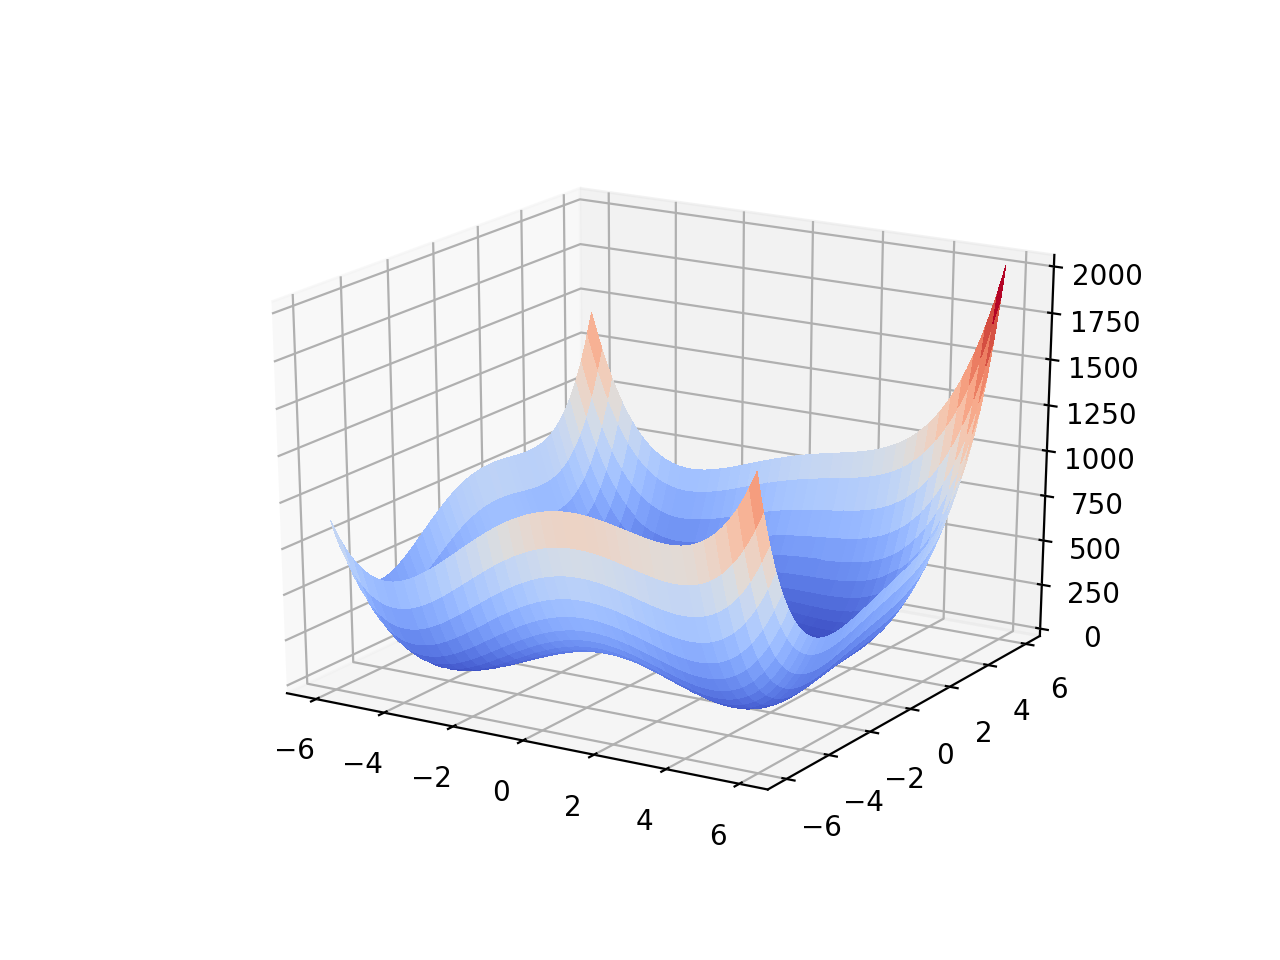
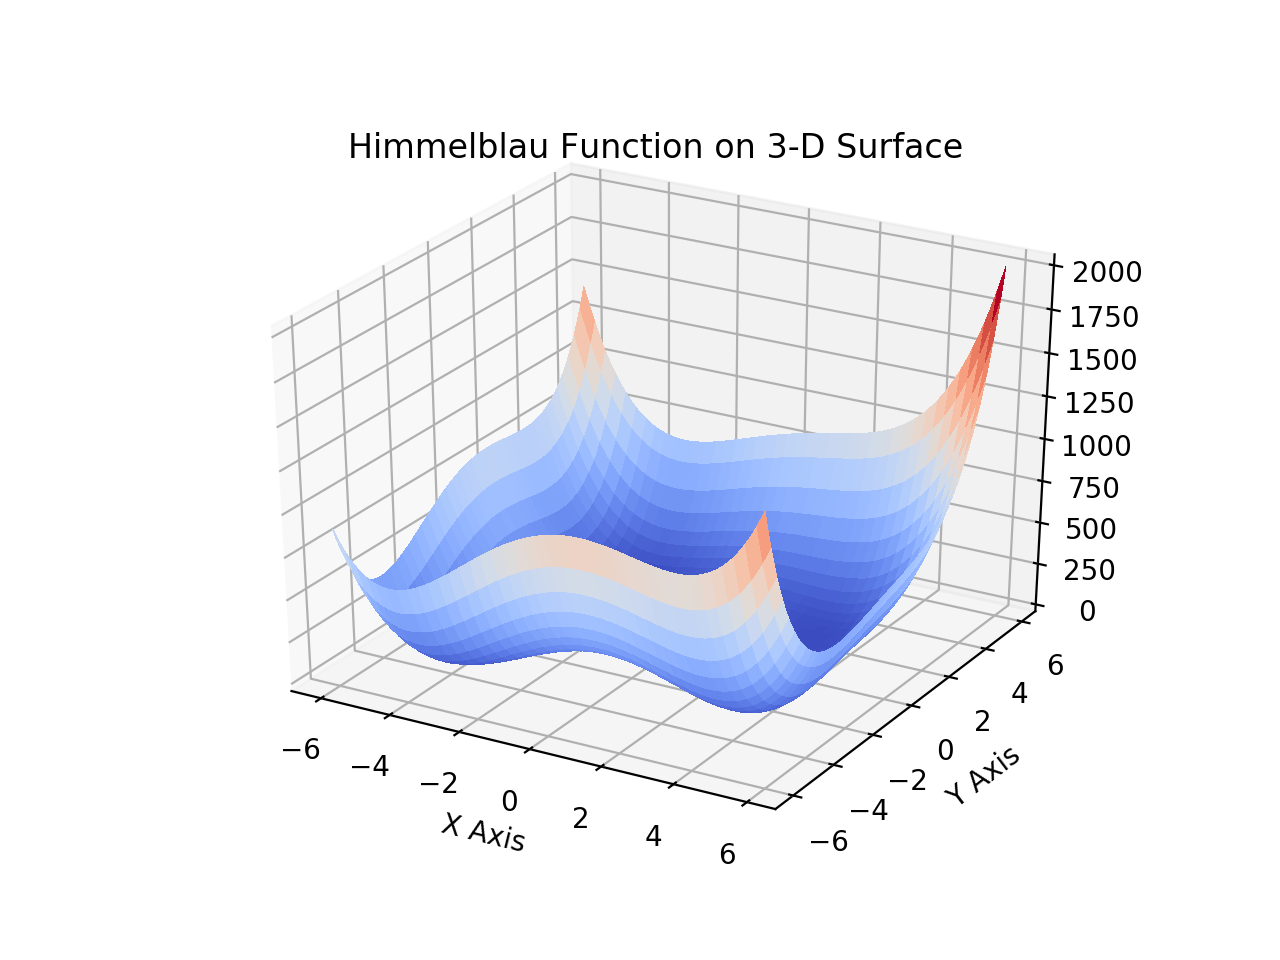
Updated README.md

diff --git a/src/dataload.py b/src/dataload.py
@@ -65,6 +65,9 @@ def SurfacePlot(x_array, y_array, function_model,
     ax = fig.gca(projection='3d')
     surf = ax.plot_surface(x_array, y_array, z_array, cmap=cm.coolwarm,
         linewidth=0, antialiased=False)
+    plt.xlabel('X Axis')
+    plt.ylabel('Y Axis')
+    plt.title('Himmelblau Function on 3-D Surface')
     if save == False:
         plt.show()
     elif save == True:
@@ -229,13 +232,14 @@ if __name__ == '__main__':
     x_array = np.arange(-6, 6, 0.1)
     y_array = np.arange(-6, 6, 0.1)
     z_array = np.zeros( len(x_array) )
-    # SurfacePlot(x_array, y_array, Himmelblau_Function)
+    SurfacePlot(x_array, y_array, Himmelblau_Function)
     
     (X,Y,Z) = CreateMeshData(-6, 6, 0.1, Himmelblau_Function)
-    
+    """
     nContour = 50
     plt.contour(X, Y, Z, nContour)
     plt.title('Himmerblau Function on 2-D Surface')
     plt.xlabel('X Axis')
     plt.ylabel('Y Axis')
     plt.show()
+    """

diff --git a/README.md b/README.md
@@ -11,6 +11,9 @@ Covers topics in regression analysis, such as linear regression, logistic regres
 
 <br/>
 <table> <tr>
+<th> Two-Dimensional Plot </th> <th> Three-Dimensional Plot </th>
+</tr>
+<tr>
 <td> <img src='./assets/himmelblau_2D.png'> </td>
 <td> <img src='./assets/himmelblau_3D.png'> </td>
 </tr> </table>
